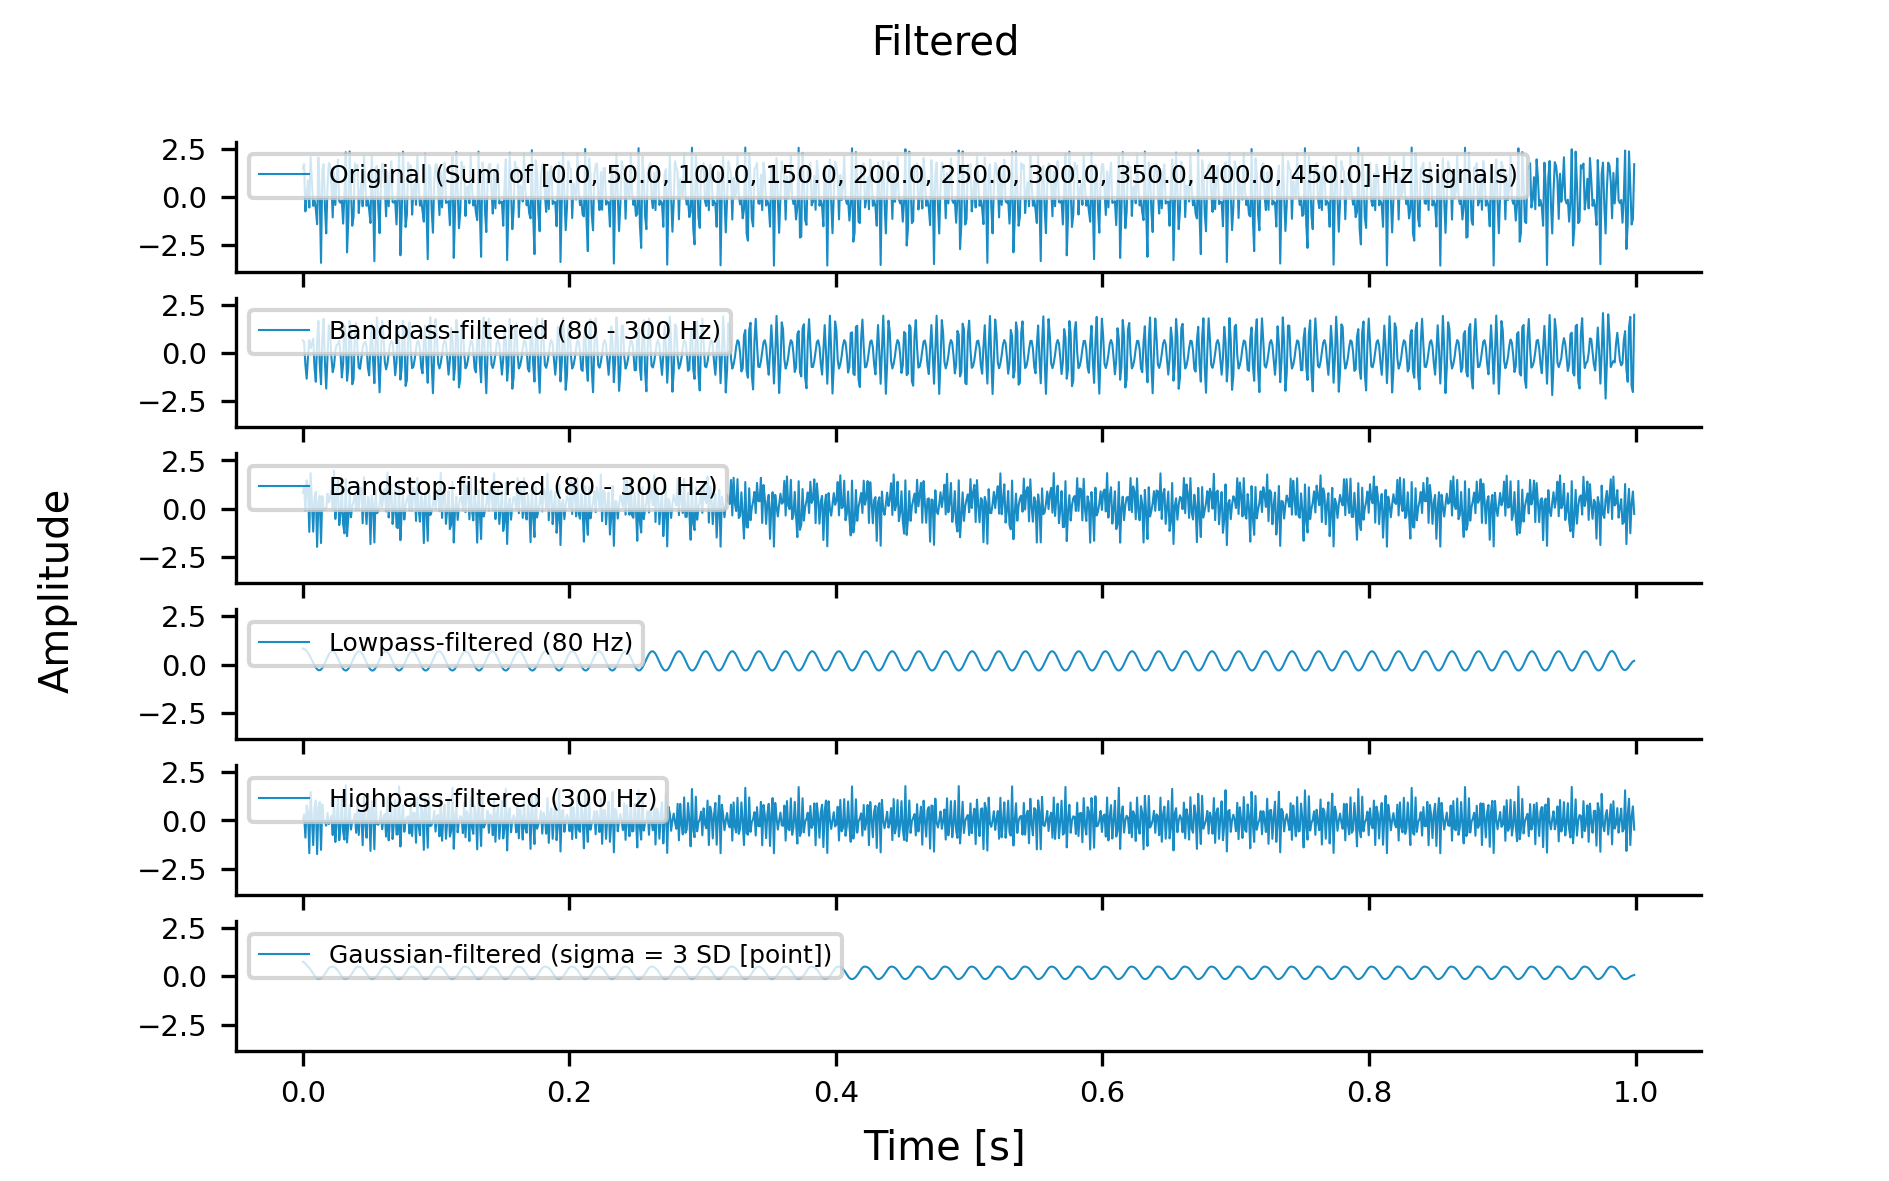
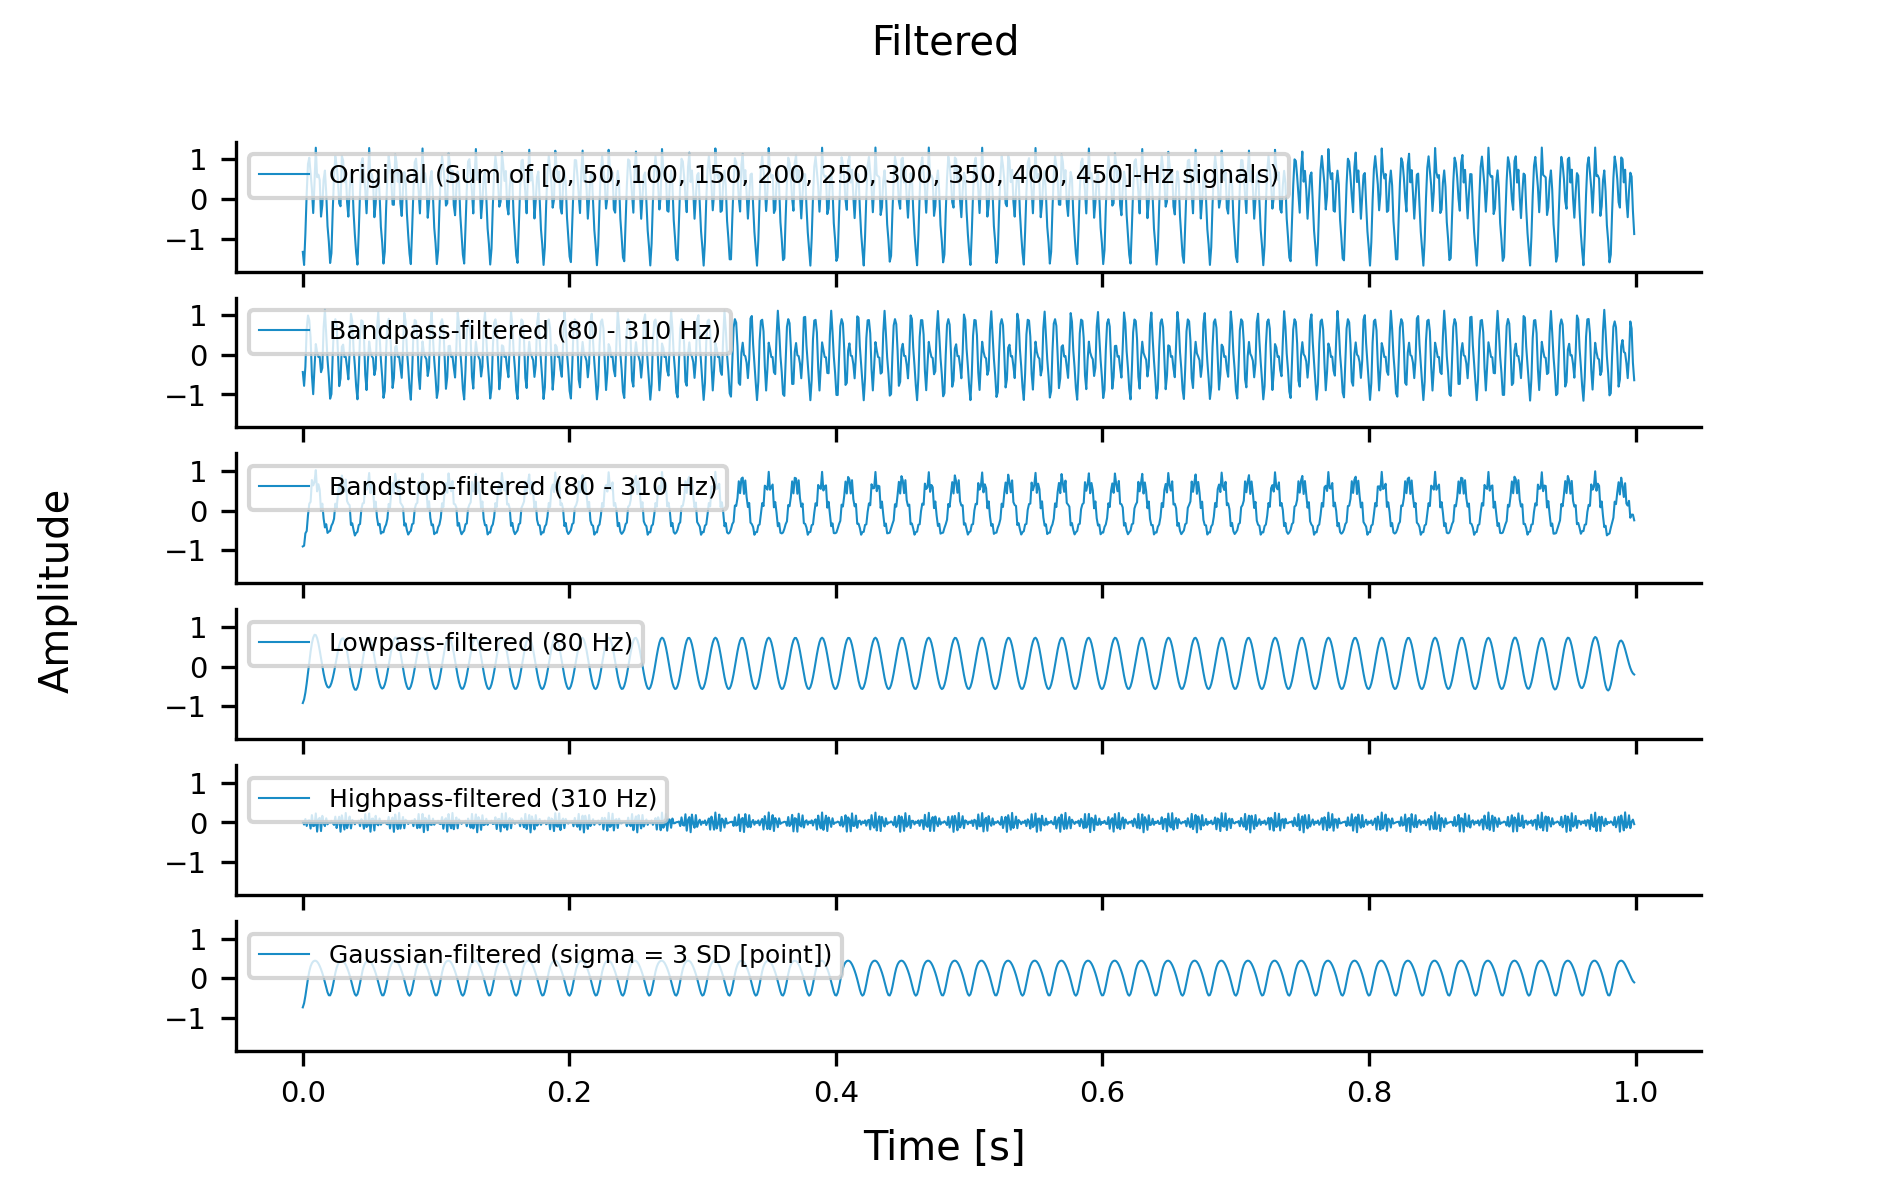
update

diff --git a/src/mngs/dsp/filt.py b/src/mngs/dsp/filt.py
@@ -1,6 +1,6 @@
 #!./env/bin/python3
 # -*- coding: utf-8 -*-
-# Time-stamp: "2024-04-13 02:49:22 (ywatanabe)"
+# Time-stamp: "2024-04-13 03:36:43 (ywatanabe)"
 
 
 import mngs
@@ -52,14 +52,14 @@ if __name__ == "__main__":
     import torch
 
     # Start
-    CONFIG, sys.stdout, sys.stderr, plt, cc = mngs.gen.start(sys, plt)
+    CONFIG, sys.stdout, sys.stderr, plt, CC = mngs.gen.start(sys, plt)
 
     # Parametes
     T_SEC = 1
     SRC_FS = 1024
-    FREQS_HZ = list(np.linspace(0, 500, 10, endpoint=False))
+    FREQS_HZ = list(np.linspace(0, 500, 10, endpoint=False).astype(int))
     SIG_TYPE = "periodic"
-    BANDS = np.vstack([[80, 300]])
+    BANDS = np.vstack([[80, 310]])
     SIGMA = 3
 
     # Demo Signal
@@ -135,7 +135,7 @@ if __name__ == "__main__":
         ax.legend(loc="upper left")
 
         for bb in np.hstack(BANDS):
-            ax.axvlines(x=bb, color="gray", line_style="--")
+            ax.axvline(x=bb, color=CC["grey"], linestyle="--")
 
     fig.suptitle("Filtered")
     fig.supxlabel("Frequency [Hz]")
@@ -145,8 +145,8 @@ if __name__ == "__main__":
     # Close
     mngs.gen.close(CONFIG)
 
-    """
-    /home/ywatanabe/proj/mngs/src/mngs/dsp/filt.py
-    """
+# EOF
 
-    # EOF
+"""
+/home/ywatanabe/proj/mngs/src/mngs/dsp/filt.py
+"""
